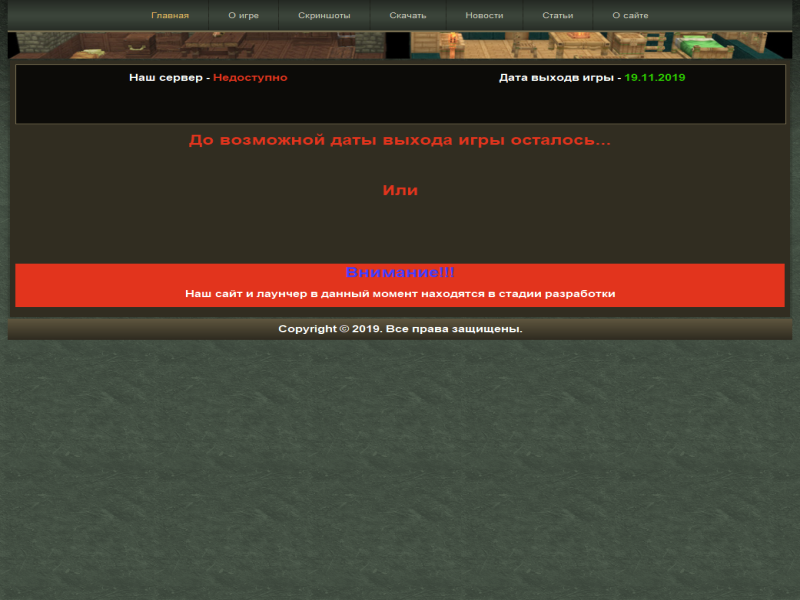
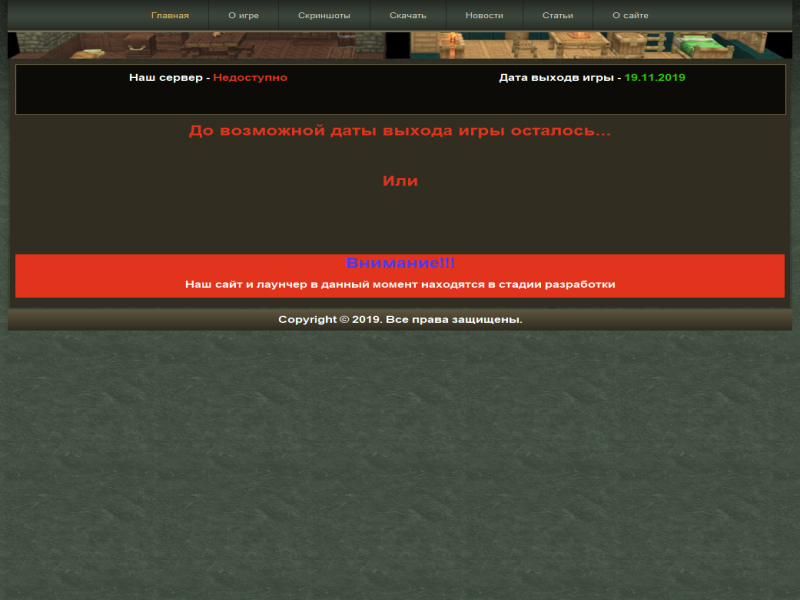
Обновление сайта

Changed region(s): [[0.0, 0.42, 1.0, 0.57], [0.0, 0.18, 1.0, 0.24], [0.4688, 0.27, 0.5312, 0.33]]

diff --git a/index.html b/index.html
@@ -56,8 +56,7 @@
     </div><div class="art-layout-cell layout-item-2" style="width: 34%" >
         <p style="text-align: center;"><span style="text-align: center;"><span style="color: rgb(255, 255, 255); font-size: 16px; font-weight: bold;">Дата выходв игры -&nbsp;</span><span style="font-size: 16px; font-weight: bold; color: #2CCC00;">19.11.2019</span></span></p>
     </div><div class="art-layout-cell layout-item-3" style="width: 33%" >
-        <p style="text-align: center;"><script src="//code.jivosite.com/widget.js" data-jv-id="saJXZinMl3" async="" type="text/javascript">
-                        </script><br></p>
+        <p style="text-align: center;"><br></p>
     </div>
     </div>
 </div>
@@ -67,7 +66,7 @@
     <div class="art-content-layout-row">
     <div class="art-layout-cell layout-item-4" style="width: 100%" >
         <p style="text-align: center;"><span style="font-size: 24px; font-weight: bold; -webkit-border-horizontal-spacing: 10px;">До возможной даты выхода игры осталось...</span><br></p>
-        <script src="//megatimer.ru/get/f62e73b5b498076e5767d203726311b9.js" type="text/javascript">
+        <script src="//megatimer.ru/get/786931f3832cb9fd6b4490b42ee51025.js" type="text/javascript">
         </script>
         <p style="text-align: center;"><span style="font-size: 24px; font-weight: bold; -webkit-border-horizontal-spacing: 10px;">Или</span></p>
         <script src="//megatimer.ru/get/f62e73b5b498076e5767d203726311b9.js" type="text/javascript">
